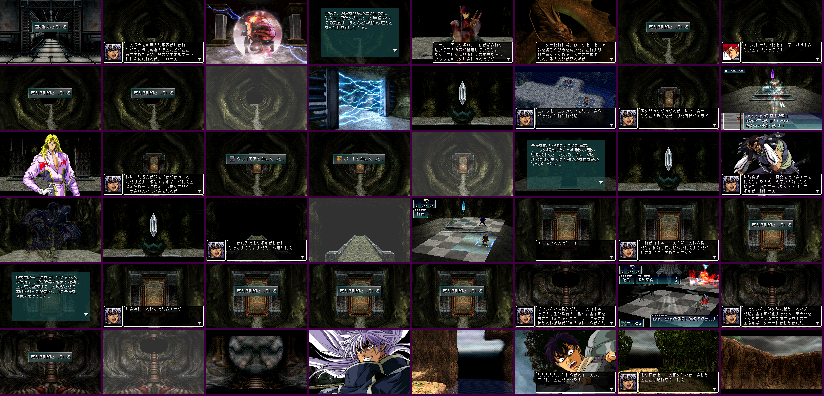
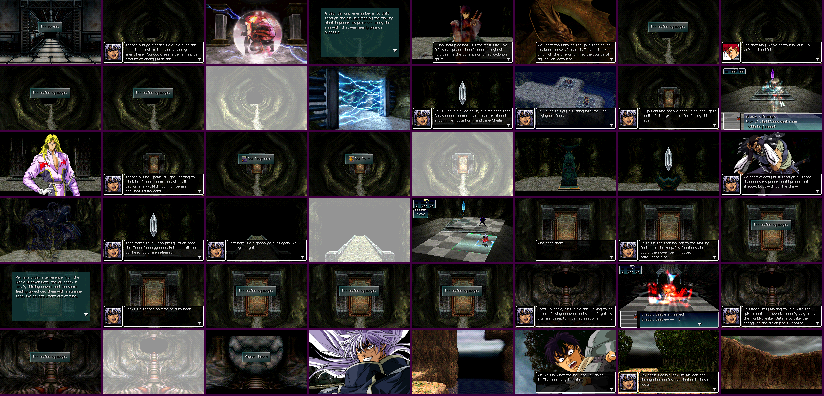
Phase 8: English QA tour sheets ready for the gate, report fixes, status

diff --git a/tools/debug/warp_report.py b/tools/debug/warp_report.py
@@ -70,9 +70,10 @@ def main():
     sheet([W / n / "final.png" for n in maps_dirs], SHEETS / "maps.png")
     sheet([W / n / "f001200.png" for n in maps_dirs], SHEETS / "map_cards.png")
     with open(Path(__file__).with_name("scenes.tsv"), encoding="utf-8", newline="") as f:
-        special = [r["name"] for r in csv.DictReader(f, delimiter="\t", quoting=csv.QUOTE_NONE) if r["group"] not in ("event", "map")]
+        special = [r["name"] for r in csv.DictReader(f, delimiter="\t", quoting=csv.QUOTE_NONE) if r["group"] not in ("event", "map", "sweep", "battlemap")]
     # the last shot, unless the scene has faded out by then (ending_thanks): then its fullest shot
-    sheet([W / n / "final.png" if (W / n / "final.png").stat().st_size >= BLACK_BYTES
+    # (a sweep scene stops itself and has no final shot)
+    sheet([W / n / "final.png" if (W / n / "final.png").exists() and (W / n / "final.png").stat().st_size >= BLACK_BYTES
            else max((W / n).glob("f0*.png"), key=lambda p: p.stat().st_size) for n in special], SHEETS / "special.png")
     proofs = W.parent / "warp_proofs"  # a directory: 400 paths overflow the Windows command line
     shutil.rmtree(proofs, ignore_errors=True)

diff --git a/tools/debug/qa_tour.py b/tools/debug/qa_tour.py
@@ -41,6 +41,8 @@ def main():
         rows = [r.split("\t")[0] for r in (WARP / f"results_{g}.tsv").read_text(encoding="utf-8").splitlines()]
         if g in ("system", "menu", "battle", "ending"):
             for name in rows:
+                if name.startswith("ending_blurbs_") and name != "ending_blurbs_19":  # same screen; the draw log has each blurb
+                    continue
                 for i, p in enumerate(sorted(glob.glob(str(WARP / name / "sheet*.png")))):
                     if name in FIRST_ONLY and i:
                         break

diff --git a/docs/status.md b/docs/status.md
@@ -2,25 +2,17 @@
 
 Updated at the end of every session. Keep it to what the next session needs; history is in git.
 
-- **Phase:** 8. QA in the emulator, in progress: all picture text and both movies are redrawn; battle sub-menu labels fixed. `tools/batches.py check` 0 problems in 12,783 entries; `tools/verify_build.py` 0 problems; `tests/test_identity.py` still proves the rebuilt disc equals the original with `edits=False`. p00-p16 were reviewed by the same worker, not independently: every `work/qa/review/p*.log` is a Codex quota error, so independent review waits for the story pass.
-- **This session:** Text coverage. `tools/debug/sweep.lua` (group `sweep`, `tools/debug/README.md`) prints every script string of a map through the real printer: **script lines 6,332 of 6,332 drawn on the marker build**. That proves each line draws in its box, not that play reaches it. New scenes: `camp_items_all` (inventory poked, `warp.lua ITEMS`; every table 386 name now shown), `battle_forms`, `camp_chars_all`. `tour_report.py` writes `build/strings.tsv` and `work/qa/cover/log.txt`, so `textcover.py work/qa/cover build/strings.tsv` runs. Coverage now: script 6,332/6,332, EXE 496/795, overlays 52/1,029, tables 503/1,454, labels 12/2,953. `verify_build.py` also checks M1 (hook and font bytes equal `engine.assemble`) and M2 (size words, every string pair in a script row): 0 problems. No translated text changed, so the English disc is unchanged. `tools/windows.json` is as committed: don't commit a rewrite from a partial log set.
+- **Phase:** 8. QA in the emulator, in progress: only the gate is left. Tour sheets exist for build `cd35b60be21ed355` (`work/qa/manifest.tsv`, 77 sheets, 0 verdicts yet). `tools/batches.py check` 0 problems in 12,783 entries; `tools/verify_build.py` 0 problems; smoke passes; `textcover.py` exits 0 **with 3,858 of 12,504 strings waived** (see below). p00-p16 were reviewed by the same worker, not independently: every `work/qa/review/p*.log` is a Codex quota error, so independent review waits for the story pass.
+- **This session:** Coverage: `textcover.py work/qa/cover build/strings.tsv --waive docs/text_unshown.tsv` exits 0, 8,646 shown, 3,858 waived, 0 failing. **The owner hasn't ruled on a waiver this large; each reason says `not reached`, not `unreachable`** (`tools/debug/waive_text.py`): enemy and object names 1,930 (only encounter 1 per area was run), encounter labels 927 (no scene draws one, purpose still unknown), battle lines 865 (need the spell, status or event), character fields 50, formations 41, camp and card messages 30, items 15. Shown by real scenes or forced print: script 6,332/6,332, EXE 792/795 (the other 3 are blank marks), tables 1,348/1,454, overlays 131/1,029, labels 46/2,953. Forced print proves a line draws through the real printer, not that play reaches it. New scenes (`tools/debug/README.md`): `sweep_exe`, `sweep_t0388a/b` (all 839 skill names), `sweep_t0393`, `sweep_t0382`, `field_prompts`, `cg_pictures`, `ending_blurbs_*` (all 69 blurbs), group `battlemap` (encounter 1 in 73 areas: every one enters battle on English; the other 6 maps ignore the debug key on the original too). Fixed: field Yes/No buttons were 23 px left of centre (`engine.PROMPT_ROW`), and `Go on ahead?`, `Save?` are padded to centre. Seen in the emulator on English: all 4 chapter ends, CG-format title cards, area cards, prompts. Graphics row 6, the note, is Latin scrawl, so it stays. QA ring moved out of the heap (`engine.RING`, below). `tools/windows.json` is from the full marker tour on this code: forced and self-sizing scenes give no width. **Don't run `tour_report.py` now:** the warp logs are from the English and original tours with no draw log, and it would rewrite `windows.json` and the coverage log. Re-run the marker tour first.
 - **Last session, movies and battle labels:** Movies done (`docs/re/graphics.md` §Movies): `tools/mdec.py` re-encodes all 9,282 ANIME frames byte-identical, `tools/movie_text.py` + `tools/movie_text.tsv` redraw 26 captions in #157 (opening) and #162 (alternate ending, `ending_alt`), 1,890 frames, only macroblocks under a caption change; `verify_build` checks them and allows no other movie sector. Seen in the emulator: opening and both endings play, English, no Japanese left at the sheet density read (every 60-120 VBlanks; `movie_text.py edges` covers each caption's edges). #158-161 have no text. Battle: `Guard`, `Items`, `Equipment` sub-menus clipped at 52 px and the Information box wrapped at 192 px and scrolled away its first line: fixed `Normal`, `Gear`, `Equip`, `Main Hand`, `Off Hand` and 4 help lines, enforced in `batches.box` (`OV1_INFO`, `OV1_SUBMENU`), recorded in `docs/re/windows.md`, seen on screen. Labels Move, Fight, Arts, Guard, Items, Orbs, Flee, Use Item, Armor, Accessory seen and fit. Play from a battle: `warp.py battle_party --state`, then `play.py SESSION --rom build/bastard_en.cue --state work/states/battle_party.state`; two circles reach `Move`, a third opens the command list.
 - **Done:** Step 0, phases 1-7. Phase 5: font and hook (`fonts/vwf12.txt`, `tools/engine.py`), insertion (`tools/insert.py`), marker build (`build.py --marker`, `--qa FILE`), width gate (`docs/re/windows.md`, per-line box widths in `tools/windows.json`, from `tools/debug/tour_report.py`).
 - **Phase 6 added:** `tools/batches.py` (split, check, merge, fix, fit; wraps to the real pixel budgets and adds pages), `tools/item_text.py` (stat-sheet descriptions, generated), `tools/enemy_text.py` + `tools/monsters.tsv` (enemy names, encounter labels), `tools/patch_out.py` (edit lines of an out file), `docs/translator-brief.md`, `docs/style-reference.md`, `docs/synopsis.md`, glossary filled.
 - **Next, in order:**
-  1. **Phase 8, done when** smoke passes; routes through changed scenes give contact sheets, each with an ok verdict (`qa_gate.py check` exits 0); every graphics-text row is English in a zoomed cold-boot shot; every choice and centred menu box passes `inkbox.py`; `textcover.py` exits 0. Do the build-changing work first, because the gate is tied to the build hash:
-     a. Add scenes for the **To test** list and the remaining I4 labels: zone names `ov1_00cb0`-`ov1_00d34` (`ov1_00d14` `Magic Defense Down Zone` is the longest; where they draw is unknown, so tighten `batches.box()` after measuring; it allows 200 px now), `ov1_0101c`-style 32 px labels are done. The warp gives no items or spells: the L1 stats editor (`docs/re/code.md`) grants items. ov2 strings are still allowed 212 px: measure and tighten.
-     b. Picture checks not yet seen in game: title cards after the redraw (`map_cards` scenes), chapter ends, the `M`/`A` icons in a battle or item list. Graphics row 6 (handwritten note, entry 1172) still needs a look at the script's context.
-     c. Check `Formation 0-3` trailing pads on screen (M3) and add the blanks rule. M1 and M2 are done.
-     d. **Close the rest of text coverage before any waiver.** Lists: `work/qa/tour_unseen.txt` after `tour_report.py`. What's left, in order of value:
-        - `camp_chars_all` **hangs on the marker build only**: `RING index overwritten: 538976288` (0x20202020, ASCII spaces over 0x801FCFFC), then exit 124. The same route passes on `build/bastard_en.cue` and on the original (`chars_en`, `chars_jp`), but those two ran with no draw log, so nothing proves the English doesn't smash RAM more quietly. Trace what writes spaces there (`watch.lua` on that address) before trusting it; a long name field in table 382 is the first suspect. 53 of 54 `t0382` strings wait on this.
-        - `t0393`: `battle_forms` showed 14 of 60; only some formations are selectable with one member. Place more members, or poke.
-        - `t0388`, 839 skill names, and their descriptions (`exe_25`-`exe_27`, about 150): where a character's skill list lives isn't found. Vai's list showed only `Healing Finger`. The 180-byte record dump is in the scratch of `work/qa/chr/`; try level (byte +1) and the words near +0x8C.
-        - `ov1`, 977 battle lines (chants, spell text, status): each needs its spell or event, and most hold `%` arguments, so don't force them through `sweep.lua` blind.
-        - `exe_00`/`exe_01`, 94 map names and system lines: map names show in the save list and on warp prompts.
-        - Tables 551-643 are encounter labels never seen on screen (`enemy_text.py`); 644-736 hold enemy names, reachable with `BATTLE=n` (mapping from n to table not traced). Table 392 stays Japanese and isn't listed.
-        Waive only with a true reason per id in `docs/text_unshown.tsv`. A string that simply wasn't reached must say so, not "unreachable", and the status and hand-back must give the count, as the owner hasn't ruled on a large waiver.
-     e. Final build, then one tour, `qa_gate.py init`, verdicts by yourself in a fresh read-only pass, `inkbox.py` on choice and centred boxes. Keep the manifest small: one sheet per menu, battle, ending and system scene, plus proof shots of events and maps tiled by `warp_report.py`, about 60 sheets, at about 2,500 tokens each. Layout is what the sheets judge, since the draw log and `batches.check` cover the words. Run battle scenes with fewer jobs (M7), and hook scenes under the interpreter (`--probe tools/debug/interp.lua`).
+  1. **Phase 8, done when** `qa_gate.py check work/qa/manifest.tsv work/qa/verdicts` exits 0 and every choice and centred menu box passes `inkbox.py`. In order:
+     a. Verdicts, in a fresh read-only pass (this worker built what it would judge, so it didn't): `qa_gate.py todo work/qa/manifest.tsv work/qa/verdicts --size 30 --out-dir work/qa/chunks`, read each chunk per `docs/visual-qa-brief.md`, write `work/qa/verdicts/<chunk>.tsv`. About 2,500 tokens a sheet, so about 190k in all: hand back at the context limit and resume, as verdict files survive. Original's sheets for comparing: `work/qa/tour_jp/` (system, menu, battle, ending).
+     b. `inkbox.py` on: `field_prompts` (`warp.py field_prompts --cue build/bastard_en.cue`; button row with the box at x 96-204, y 60-100 on an 8-cell box), one script choice, the camp menu, the battle `Change  Keep` and discard prompts if reached. A fix that changes the build means a new tour and `qa_gate.py init` (unchanged sheets keep their verdicts, but the build hash must match).
+     c. Still not on screen; carry into the owner's report if not done: the `M`/`A` icons (entry 5) in a battle or skill list: `camp_character_page` shows the equipment page, and the `Arts` list route isn't found (`play.py` from `battle_party`: a third circle after `Move` ends the move instead, so step one press at a time); `Formation 0-3` trailing pads (M3) and the blanks rule; zone names `ov1_00cb0`-`ov1_00d34` (`ov1_00d14` `Magic Defense Down Zone` is the longest, allowed 200 px, where they draw is unknown); ov2 strings still allowed 212 px.
+     d. `camp_chars_all` still times out **on the marker build only**, at the fourth character. The `0x20202020` over the old ring was the camp's own name buffer (800C47B0, 60-byte alloc, spaces then the name), so the heap had reached the ring: not a smash, and the ring now sits at 8000C400. The later hang is not traced: marker fields fill their whole room and English ones don't. English passes this scene, and its sheet (`menu_camp_chars_all_*`) is what proves the 50 character fields, so read those closely.
   2. Later gates for phase 9: the story pass (`docs/story-reviewer-brief.md`, chapter files) is not done, and `docs/polish.md` must have no unticked line. `codex exec` is out of quota until 2026-11-11 13:07; before then, review by yourself in a fresh read-only pass.
   **Review pass, how it ended:** fixes go through `tools/batches.py fix FILE` (lines `id English`, no outer codes and no `{n}`: it wraps; covers repeats, writes `script/` only), so `work/tl/*.out.tsv` hold old text: **don't `merge --overwrite`**.
 - **To test in phase 8, not yet on screen:** `%M` after a space (`%s's magic{n}attack! %M`). `ov1_0443c` `%s's defense{n}magic! %M` did print on the marker build: `battle_party` with `ITEMS=501 ITEM_COUNT=5`, then circle x3, down x4 (Orbs), circle x3, then mash circle. The same route on English drifted to a normal attack, so the English line is still unseen: walk it with `play.py` from `work/states/bp_items.state` (regenerate it first if the build changed); `ov1_01220` `Change  Keep` and `ov1_011e4` `For %s's %d-person %s,` (a plan with a Unison or Chain); `ov2_004b8` + `ov2_004bc` (`has` + `it equipped`: an item another member wears); `ov2_00560` `Yes  No  All` (discard prompt: full inventory). Find the inventory RAM and add scenes. Build stats: `moved_to_exe` 129, `exe_free_left` 47,559, own free `ov1` 5,772, `ov4` 0.
